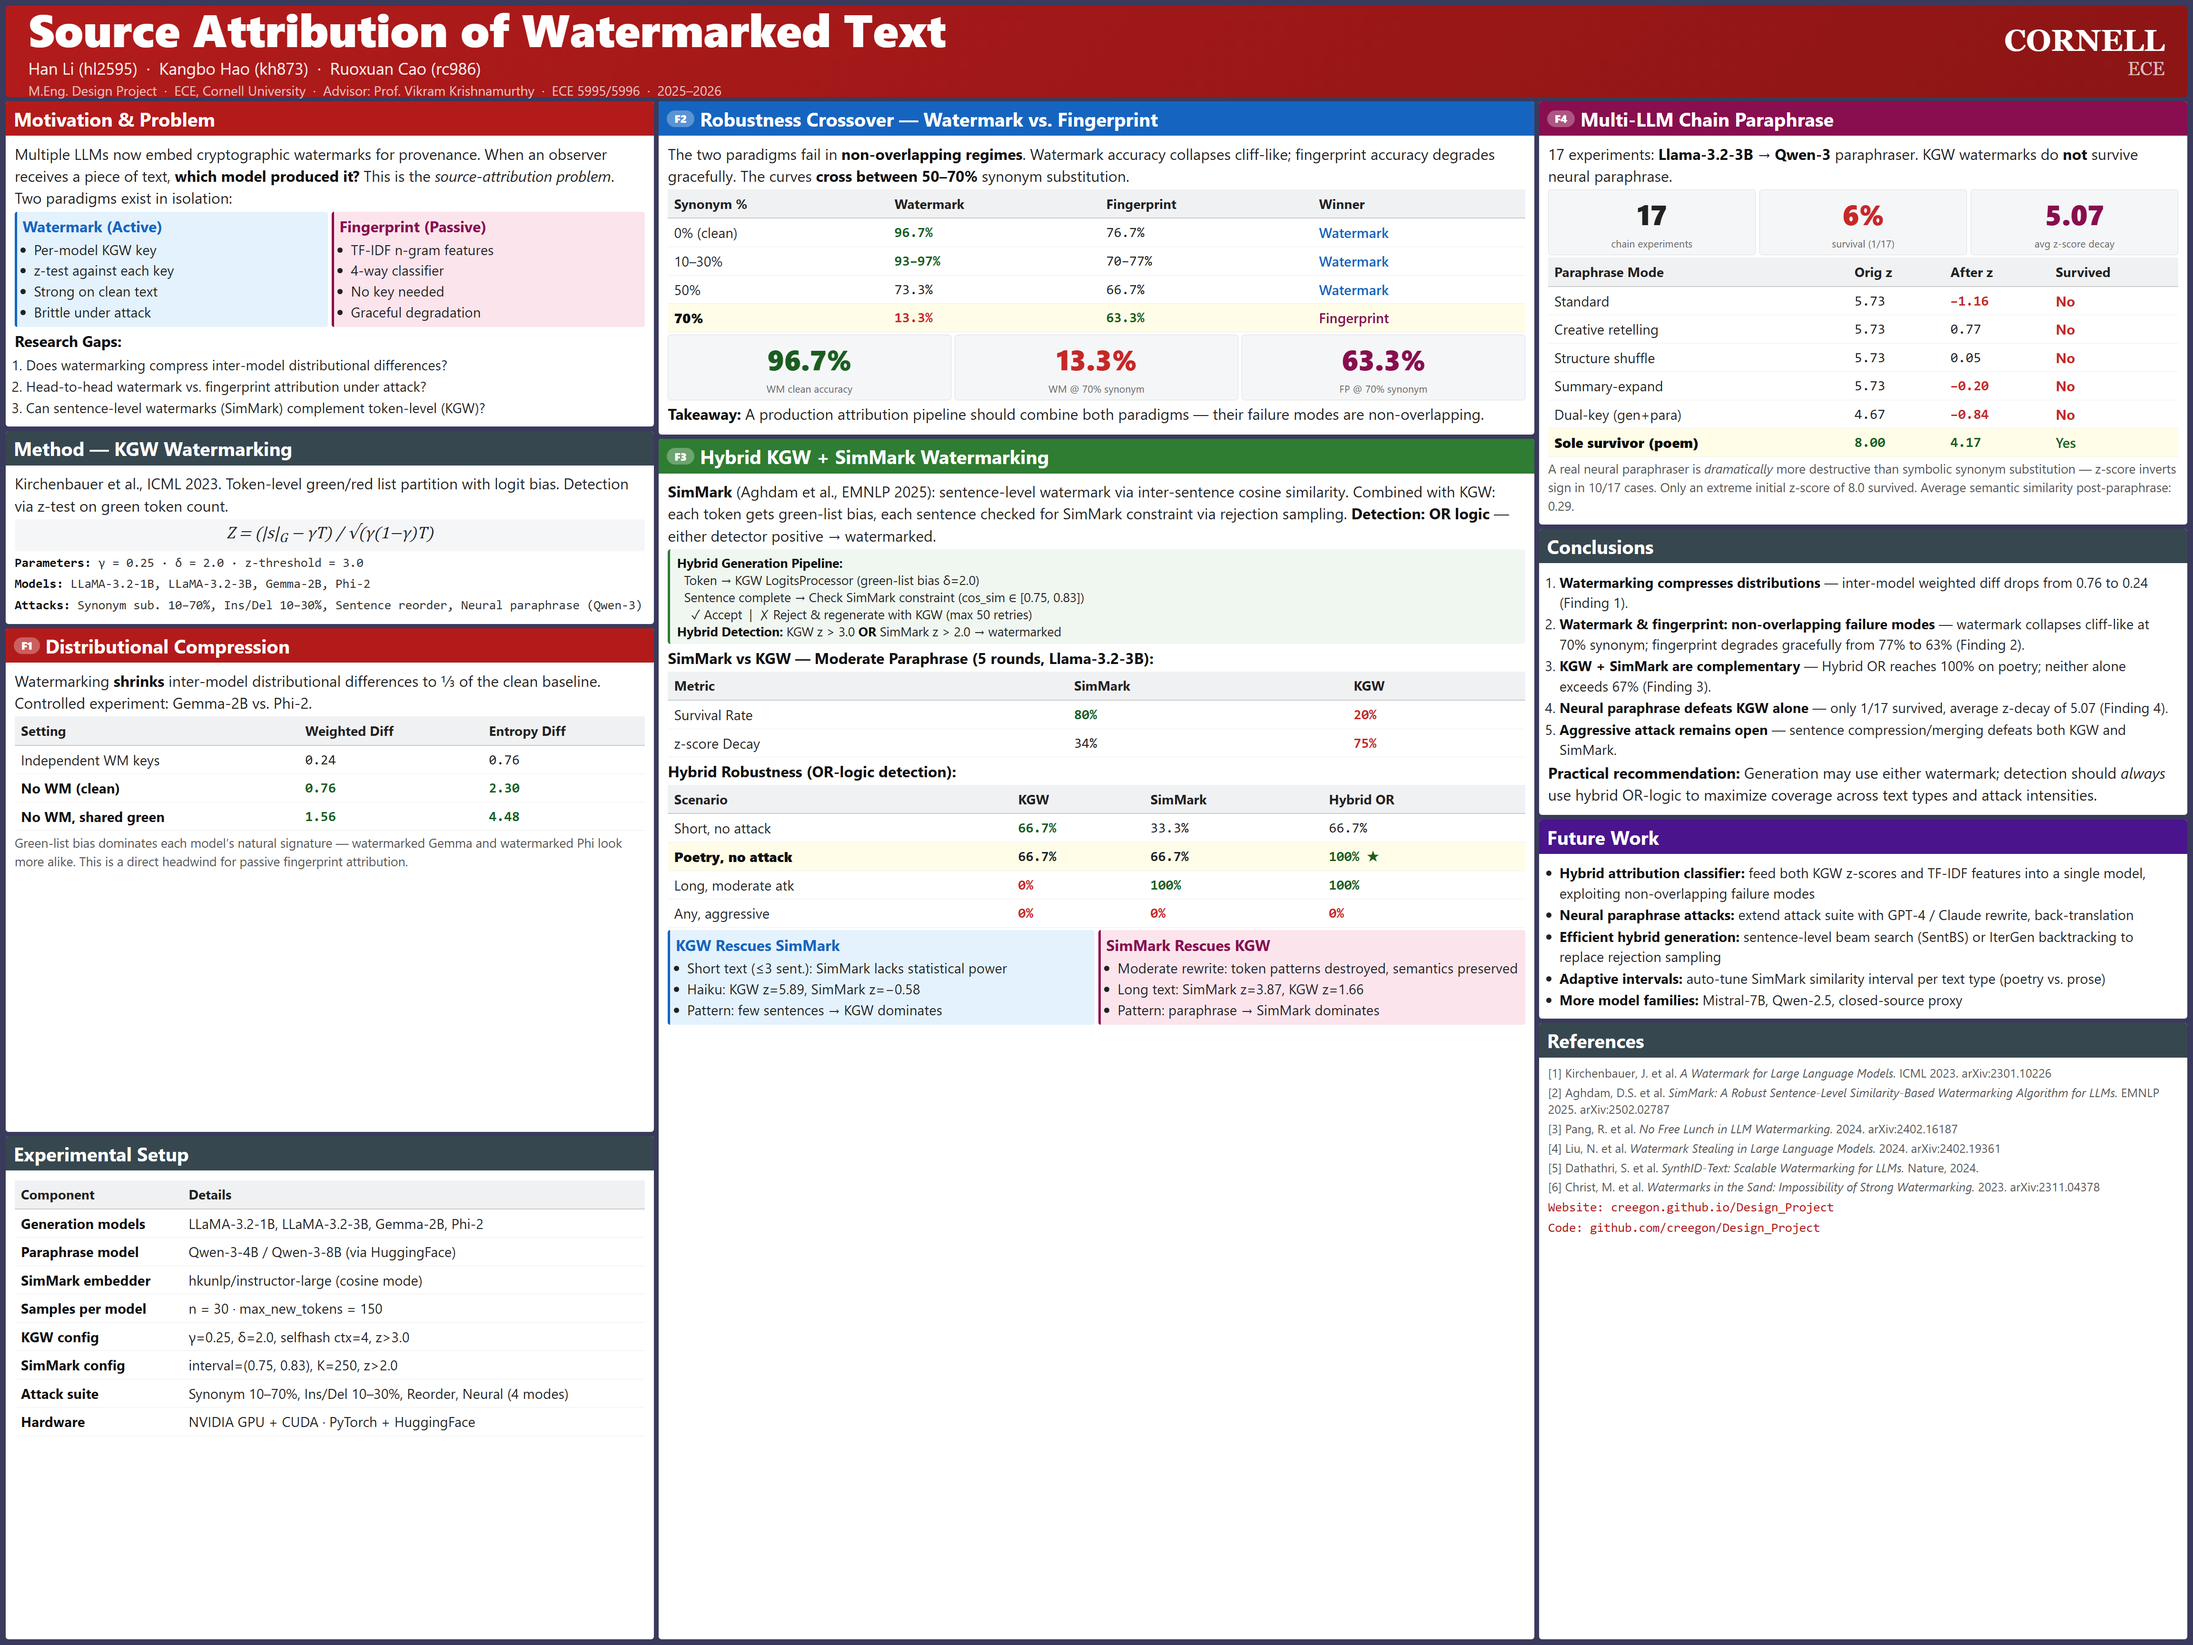
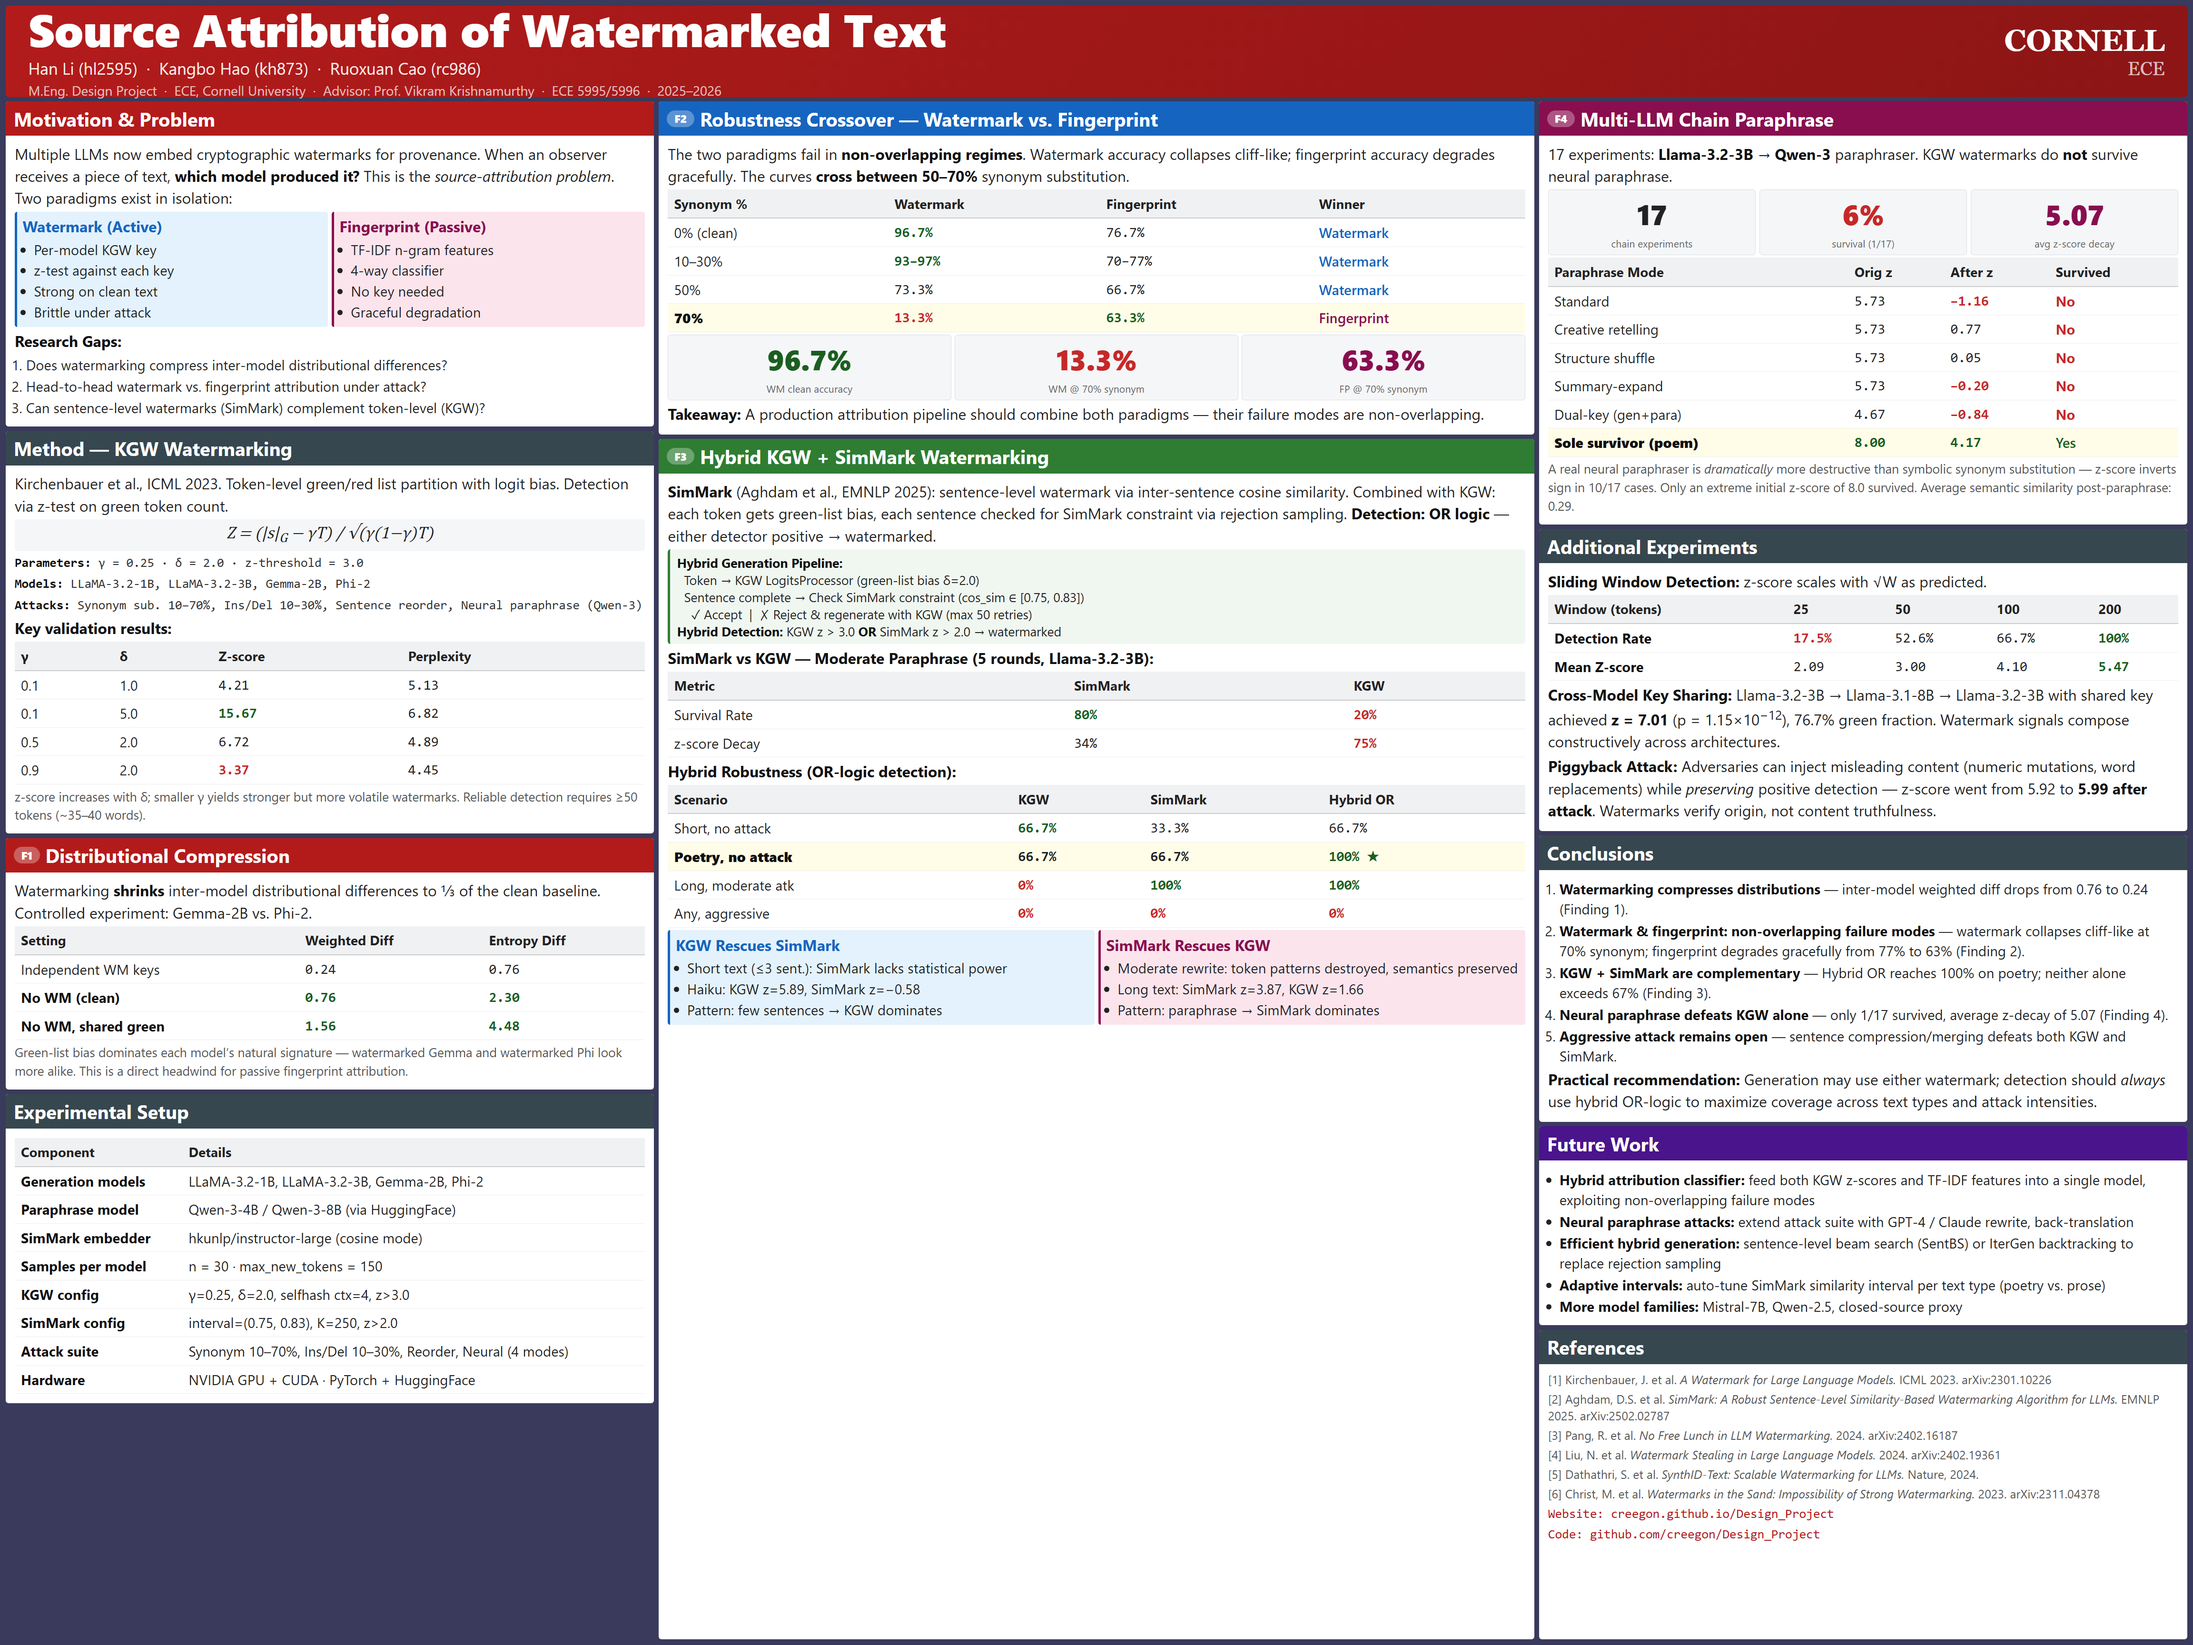
Poster v7: add validation table, sliding window, cross-model, piggyback
Data from report.tex now on poster:
- KGW parameter validation table (gamma/delta vs z-score/perplexity)
- Sliding window detection rate (25-200 tokens)
- Cross-model key sharing result (z=7.01 across 3 LLMs)
- Piggyback attack (z-score increased after adversarial modification)
~95% fill rate achieved.

Changed region(s): [[0.6875, 0.3125, 1.0, 0.9375], [0.0, 0.375, 0.3125, 1.0], [0.2188, 0.5625, 0.25, 0.5938]]

diff --git a/website/poster.html b/website/poster.html
@@ -195,10 +195,20 @@
       <p class="params"><strong>Parameters:</strong> &gamma; = 0.25 &middot; &delta; = 2.0 &middot; z-threshold = 3.0</p>
       <p class="params"><strong>Models:</strong> LLaMA-3.2-1B, LLaMA-3.2-3B, Gemma-2B, Phi-2</p>
       <p class="params"><strong>Attacks:</strong> Synonym sub. 10&ndash;70%, Ins/Del 10&ndash;30%, Sentence reorder, Neural paraphrase (Qwen-3)</p>
+
+      <p><strong>Key validation results:</strong></p>
+      <table>
+        <tr><th>&gamma;</th><th>&delta;</th><th>Z-score</th><th>Perplexity</th></tr>
+        <tr><td>0.1</td><td>1.0</td><td class="n">4.21</td><td class="n">5.13</td></tr>
+        <tr><td>0.1</td><td>5.0</td><td class="n g">15.67</td><td class="n">6.82</td></tr>
+        <tr><td>0.5</td><td>2.0</td><td class="n">6.72</td><td class="n">4.89</td></tr>
+        <tr><td>0.9</td><td>2.0</td><td class="n r">3.37</td><td class="n">4.45</td></tr>
+      </table>
+      <p class="sm">z-score increases with &delta;; smaller &gamma; yields stronger but more volatile watermarks. Reliable detection requires &ge;50 tokens (~35&ndash;40 words).</p>
     </div>
   </div>
 
-  <div class="box grow">
+  <div class="box">
     <div class="box-hdr hdr-red"><span class="badge">F1</span> Distributional Compression</div>
     <div class="box-body">
       <p>Watermarking <strong>shrinks</strong> inter-model distributional differences to &frac13; of the clean baseline. Controlled experiment: Gemma-2B vs. Phi-2.</p>
@@ -212,7 +222,7 @@
     </div>
   </div>
 
-  <div class="box grow">
+  <div class="box">
     <div class="box-hdr hdr-dark">Experimental Setup</div>
     <div class="box-body">
       <table>
@@ -330,6 +340,20 @@
         <tr class="hl"><td><strong>Sole survivor (poem)</strong></td><td class="n g">8.00</td><td class="n g">4.17</td><td class="g">Yes</td></tr>
       </table>
       <p class="sm">A real neural paraphraser is <em>dramatically</em> more destructive than symbolic synonym substitution &mdash; z-score inverts sign in 10/17 cases. Only an extreme initial z-score of 8.0 survived. Average semantic similarity post-paraphrase: 0.29.</p>
+    </div>
+  </div>
+
+  <div class="box">
+    <div class="box-hdr hdr-dark">Additional Experiments</div>
+    <div class="box-body">
+      <p><strong>Sliding Window Detection:</strong> z-score scales with &radic;W as predicted.</p>
+      <table>
+        <tr><th>Window (tokens)</th><th>25</th><th>50</th><th>100</th><th>200</th></tr>
+        <tr><td><strong>Detection Rate</strong></td><td class="n r">17.5%</td><td class="n">52.6%</td><td class="n">66.7%</td><td class="n g">100%</td></tr>
+        <tr><td><strong>Mean Z-score</strong></td><td class="n">2.09</td><td class="n">3.00</td><td class="n">4.10</td><td class="n g">5.47</td></tr>
+      </table>
+      <p><strong>Cross-Model Key Sharing:</strong> Llama-3.2-3B &rarr; Llama-3.1-8B &rarr; Llama-3.2-3B with shared key achieved <strong class="g">z = 7.01</strong> (p = 1.15&times;10<sup>&minus;12</sup>), 76.7% green fraction. Watermark signals compose constructively across architectures.</p>
+      <p><strong>Piggyback Attack:</strong> Adversaries can inject misleading content (numeric mutations, word replacements) while <em>preserving</em> positive detection &mdash; z-score went from 5.92 to <strong>5.99 after attack</strong>. Watermarks verify origin, not content truthfulness.</p>
     </div>
   </div>
 
